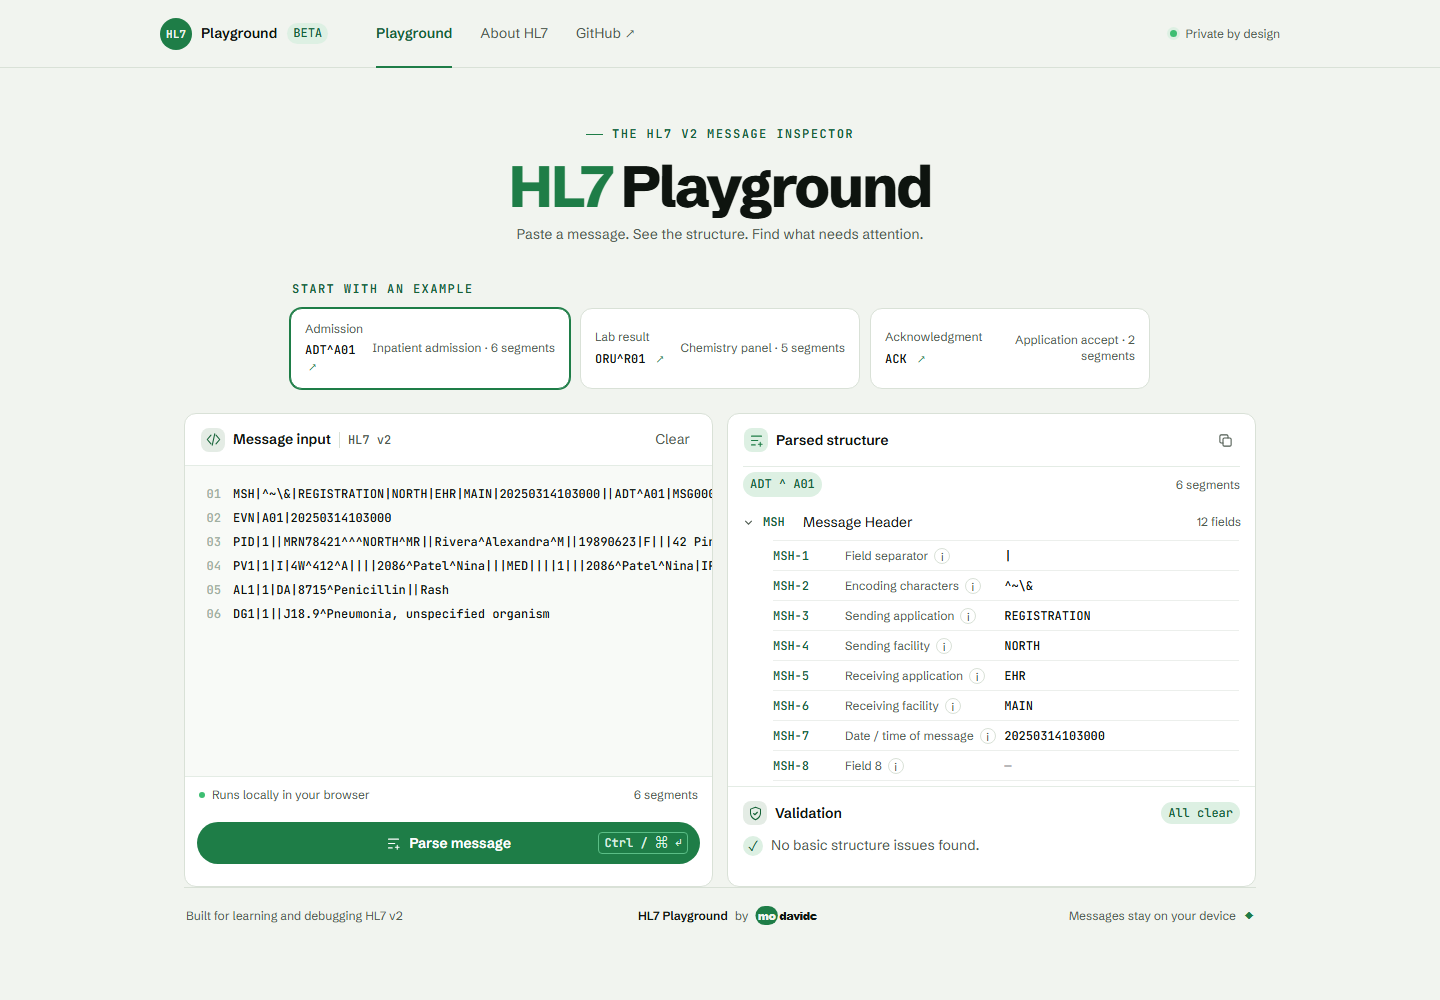
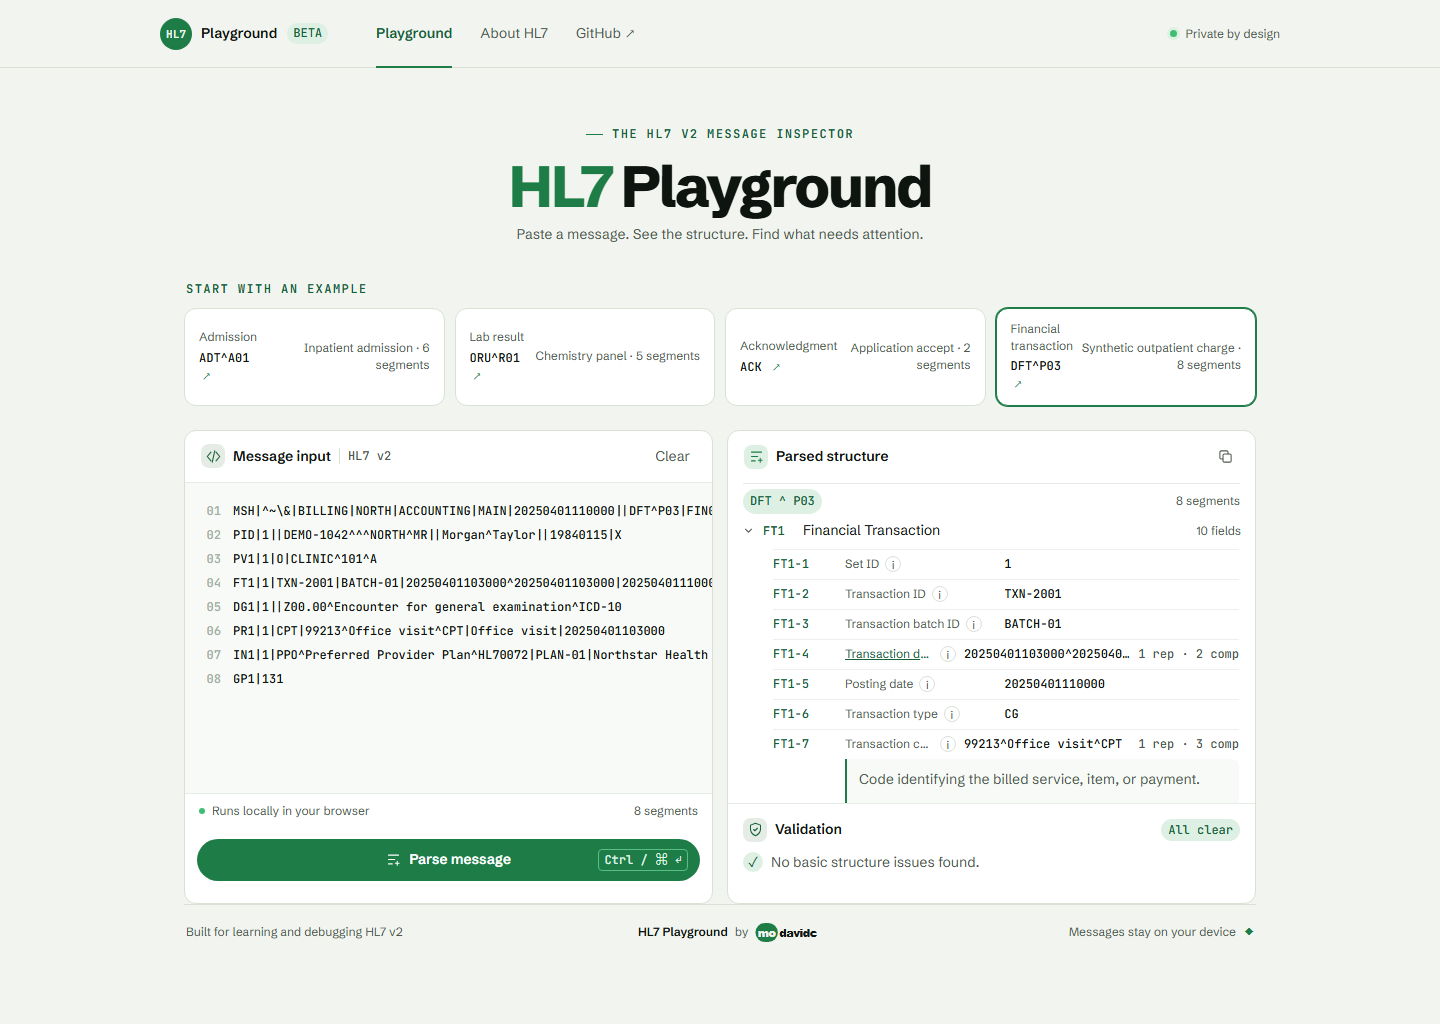
Add DFT financial message support

diff --git a/src/parser.ts b/src/parser.ts
@@ -178,7 +178,15 @@ export function validateMessage(input: string, message: Hl7Message): Issue[] {
     }
     for (const fieldIndex of required) {
       if (!segment.fields[fieldIndex - 1]?.value) {
-        issues.push(issue('warning', `${segment.name}-${fieldIndex} is empty`, 'This field is required for the basic structure check.', `${segment.name}-${fieldIndex}`));
+        const isPatientIdentifier = segment.name === 'PID' && fieldIndex === 3;
+        issues.push(issue(
+          'warning',
+          isPatientIdentifier ? 'PID-3 is empty (basic check)' : `${segment.name}-${fieldIndex} is empty`,
+          isPatientIdentifier
+            ? 'The basic check expects a patient identifier here. This is a structural hint, not a message-profile conformance result.'
+            : 'This field is expected by the basic structure check.',
+          `${segment.name}-${fieldIndex}`
+        ));
       }
     }
   }
@@ -196,6 +204,10 @@ export const segmentDescriptions: Record<string, string> = {
   ORC: 'Common Order',
   OBR: 'Observation Request',
   OBX: 'Observation Result',
+  FT1: 'Financial Transaction',
+  IN1: 'Insurance',
+  GP1: 'Grouping / Reimbursement',
+  PR1: 'Procedures',
   MSA: 'Message Acknowledgment',
   ERR: 'Error Information',
   NTE: 'Notes and Comments'
@@ -266,6 +278,61 @@ export const fieldDefinitions: Record<string, Record<number, FieldDefinition>> =
     8: { name: 'Abnormal flags', description: 'Flags that qualify the result relative to its reference range.' },
     11: { name: 'Result status', description: 'Status of this observation result.' }
   },
+  FT1: {
+    1: { name: 'Set ID', datatype: 'SI', description: 'Sequence number for this financial transaction.' },
+    2: { name: 'Transaction ID', datatype: 'ST', description: 'Identifier assigned by the sending system for this transaction.' },
+    3: { name: 'Transaction batch ID', datatype: 'ST', description: 'Identifier for the batch containing this transaction.' },
+    4: { name: 'Transaction date', datatype: 'DR', description: 'Date or date range when the service or transaction took place.' },
+    5: { name: 'Posting date', datatype: 'TS', description: 'Date the transaction was sent for financial posting.' },
+    6: { name: 'Transaction type', datatype: 'IS', description: 'Classifies the transaction, such as charge, credit, payment, or adjustment.' },
+    7: { name: 'Transaction code', datatype: 'CE', description: 'Code identifying the billed service, item, or payment.' },
+    8: { name: 'Transaction description', datatype: 'ST', description: 'Legacy description; newer messages generally carry text in FT1-7.' },
+    10: { name: 'Transaction quantity', datatype: 'NM', description: 'Quantity of items associated with this transaction.' },
+    11: { name: 'Extended amount', datatype: 'CP', description: 'Total price for the transaction.' },
+    12: { name: 'Unit amount', datatype: 'CP', description: 'Price for one unit of the transaction.' },
+    13: { name: 'Department code', datatype: 'CE', description: 'Department associated with the transaction.' },
+    14: { name: 'Insurance plan ID', datatype: 'CE', description: 'Insurance plan associated with this transaction.' },
+    15: { name: 'Insurance amount', datatype: 'CP', description: 'Amount attributed to insurance for this transaction.' },
+    16: { name: 'Assigned patient location', datatype: 'PL', description: 'Location associated with the transaction.' },
+    17: { name: 'Fee schedule', datatype: 'IS', description: 'Fee schedule used to price the transaction.' },
+    18: { name: 'Patient type', datatype: 'IS', description: 'Patient classification used for the transaction.' },
+    19: { name: 'Diagnosis code', datatype: 'CE', description: 'Diagnosis associated with the financial transaction.' },
+    20: { name: 'Performed by', datatype: 'XCN', description: 'Provider who performed the service.' },
+    21: { name: 'Ordered by', datatype: 'XCN', description: 'Provider who ordered the service.' },
+    22: { name: 'Unit cost', datatype: 'CP', description: 'Cost of one unit.' },
+    23: { name: 'Filler order number', datatype: 'EI', description: 'Identifier assigned by the system that filled the order.' },
+    25: { name: 'Procedure code', datatype: 'CE', description: 'Procedure associated with the financial transaction.' }
+  },
+  IN1: {
+    1: { name: 'Set ID', datatype: 'SI', description: 'Sequence number for this insurance plan group.' },
+    2: { name: 'Insurance plan ID', datatype: 'CE', description: 'Identifier and optional description of the insurance plan.' },
+    3: { name: 'Insurance company ID', datatype: 'CX', description: 'Identifier for the insurance company.' },
+    4: { name: 'Insurance company name', datatype: 'XON', description: 'Name of the insurance company.' },
+    5: { name: 'Insurance company address', datatype: 'XAD', description: 'Address of the insurance company.' },
+    8: { name: 'Group number', datatype: 'ST', description: 'Group number associated with the insurance plan.' },
+    15: { name: 'Plan type', datatype: 'IS', description: 'Type of insurance plan.' },
+    16: { name: 'Name of insured', datatype: 'XPN', description: 'Name of the person covered by the plan.' },
+    17: { name: 'Insured relationship', datatype: 'CE', description: 'Relationship of the insured to the patient.' }
+  },
+  GP1: {
+    1: { name: 'Type of bill code', datatype: 'IS', description: 'Classifies the bill for grouping and reimbursement.' },
+    2: { name: 'Revenue code', datatype: 'IS', description: 'Revenue category associated with the claim.' },
+    3: { name: 'Overall claim disposition code', datatype: 'IS', description: 'Disposition assigned to the overall claim.' },
+    4: { name: 'OCE edits per visit code', datatype: 'IS', description: 'Outpatient code editor result associated with the visit.' },
+    5: { name: 'Outlier cost', datatype: 'CP', description: 'Cost reported for grouping and reimbursement.' }
+  },
+  PR1: {
+    1: { name: 'Set ID', datatype: 'SI', description: 'Sequence number for this procedure.' },
+    2: { name: 'Procedure coding method', datatype: 'IS', description: 'Coding system used for the procedure code.' },
+    3: { name: 'Procedure code', datatype: 'CE', description: 'Code and optional text identifying the procedure.' },
+    4: { name: 'Procedure description', datatype: 'ST', description: 'Text description of the procedure.' },
+    5: { name: 'Procedure date / time', datatype: 'TS', description: 'Date and time when the procedure was performed.' },
+    6: { name: 'Procedure functional type', datatype: 'IS', description: 'Functional category of the procedure.' },
+    7: { name: 'Procedure minutes', datatype: 'NM', description: 'Duration of the procedure in minutes.' },
+    13: { name: 'Consent code', datatype: 'CE', description: 'Consent associated with the procedure.' },
+    14: { name: 'Procedure priority', datatype: 'ID', description: 'Priority assigned to the procedure.' },
+    15: { name: 'Associated diagnosis code', datatype: 'CE', description: 'Diagnosis associated with the procedure.' }
+  },
   MSA: {
     1: { name: 'Acknowledgment code', description: 'Indicates whether the message was accepted or rejected.' },
     2: { name: 'Message control ID', description: 'Control ID of the message being acknowledged.' },
@@ -273,7 +340,16 @@ export const fieldDefinitions: Record<string, Record<number, FieldDefinition>> =
   }
 };
 
-export function getFieldDefinition(segment: string, field: number): FieldDefinition {
+export function getFieldDefinition(segment: string, field: number, value = ''): FieldDefinition {
+  const [messageCode, triggerEvent] = value.split(/[^A-Za-z0-9]+/);
+  if (segment === 'MSH' && field === 9 && messageCode === 'DFT' && triggerEvent === 'P03') {
+    return { name: 'Message type', datatype: 'MSG', description: 'DFT^P03 posts detailed financial transactions, such as charges, payments, and adjustments.' };
+  }
+
+  if (segment.startsWith('Z')) {
+    return { name: `Local field ${field}`, description: `This field belongs to the locally defined ${segment} segment. Its meaning depends on the sending implementation.` };
+  }
+
   return fieldDefinitions[segment]?.[field] ?? {
     name: `Field ${field}`,
     description: `Field ${field} of the ${segment} segment. This field is not described in the built-in guide.`

diff --git a/e2e/playground.spec.ts b/e2e/playground.spec.ts
@@ -11,6 +11,28 @@ test('loads the ADT example and exposes its parsed structure', async ({ page }) 
   await expect(page.getByText('No basic structure issues found.')).toBeVisible();
 });
 
+test('loads the synthetic financial example with DFT field guidance', async ({ page }) => {
+  await page.locator('[data-example="3"]').click();
+
+  await expect(page.locator('.message-pill')).toHaveText('DFT ^ P03');
+  await expect(page.locator('.segment-name').nth(3)).toHaveText('FT1');
+  await expect(page.locator('.segment-description').nth(3)).toHaveText('Financial Transaction');
+  await page.locator('[data-field="FT1-7"]').click();
+  await expect(page.locator('.field-detail')).toContainText('Code identifying the billed service');
+  await expect(page.locator('.validation')).toContainText('No basic structure issues found.');
+});
+
+test('identifies a Z segment as a local extension without guessing its field meaning', async ({ page }) => {
+  await page.getByRole('textbox', { name: 'HL7 v2 message input' }).fill(
+    'MSH|^~\\&|APP|FAC|REC|RFAC|20250101010101||ADT^A01|CTRL1|P|2.5\nZDN|LOCAL-VALUE'
+  );
+  await page.getByRole('button', { name: 'Parse message' }).click();
+
+  await expect(page.locator('.segment-description').nth(1)).toHaveText('Local extension (implementation-defined)');
+  await page.locator('[data-field="ZDN-1"]').click();
+  await expect(page.locator('.field-detail')).toContainText('meaning depends on the sending implementation');
+});
+
 test('preserves keyboard focus while expanding segments and field explanations', async ({ page }) => {
   const segment = page.locator('[data-segment="1"]');
   await segment.focus();

diff --git a/src/main.ts b/src/main.ts
@@ -108,7 +108,7 @@ function renderValueTree(segmentName: string, field: Hl7Field): string {
 
 function renderField(segmentName: string, field: Hl7Field): string {
   const fieldKey = `${segmentName}-${field.index}`;
-  const definition = getFieldDefinition(segmentName, field.index);
+  const definition = getFieldDefinition(segmentName, field.index, field.value);
   const expanded = expandedFields.has(fieldKey);
   const fieldKeyHtml = escapeHtml(fieldKey);
   const structure = isStructured(field);
@@ -131,7 +131,8 @@ function renderField(segmentName: string, field: Hl7Field): string {
 
 function renderSegment(segment: Hl7Message['segments'][number]): string {
   const expanded = expandedSegments === null || expandedSegments.has(segment.index);
-  const description = segmentDescriptions[segment.name] ?? 'HL7 Segment';
+  const description = segmentDescriptions[segment.name]
+    ?? (segment.name.startsWith('Z') ? 'Local extension (implementation-defined)' : 'HL7 Segment');
   return `<div class="segment ${expanded ? 'is-open' : ''}">
     <button class="segment-row" data-segment="${segment.index}" aria-expanded="${expanded}">
       <span class="tree-chevron">${icons.chevron}</span>

diff --git a/src/examples.ts b/src/examples.ts
@@ -17,5 +17,9 @@ export const examples: Example[] = [
   {
     name: 'ACK', type: 'Acknowledgment', description: 'Application accept · 2 segments',
     message: 'MSH|^~\\&|EHR|MAIN|REGISTRATION|NORTH|20250314103100||ACK^A01|ACK00001|P|2.5\r\nMSA|AA|MSG00001|Message accepted'
+  },
+  {
+    name: 'DFT^P03', type: 'Financial transaction', description: 'Synthetic outpatient charge · 8 segments',
+    message: 'MSH|^~\\&|BILLING|NORTH|ACCOUNTING|MAIN|20250401110000||DFT^P03|FIN00001|P|2.5\r\nPID|1||DEMO-1042^^^NORTH^MR||Morgan^Taylor||19840115|X\r\nPV1|1|O|CLINIC^101^A\r\nFT1|1|TXN-2001|BATCH-01|20250401103000^20250401103000|20250401110000|CG|99213^Office visit^CPT||1|125.00^TP\r\nDG1|1||Z00.00^Encounter for general examination^ICD-10\r\nPR1|1|CPT|99213^Office visit^CPT|Office visit|20250401103000\r\nIN1|1|PPO^Preferred Provider Plan^HL70072|PLAN-01|Northstar Health Plan\r\nGP1|131'
   }
 ];

diff --git a/src/styles.css b/src/styles.css
@@ -122,9 +122,9 @@ main { max-width: 1120px; margin: 0 auto; padding: 0 24px; }
 .hero h1 span { color: var(--accent); }
 .hero p { margin: 0; color: var(--muted); font-size: 14px; }
 
-.examples { max-width: 860px; margin: 0 auto 24px; }
+.examples { max-width: 1072px; margin: 0 auto 24px; }
 .section-kicker { margin: 0 0 10px 2px; }
-.example-row { display: grid; grid-template-columns: repeat(3, 1fr); gap: 10px; }
+.example-row { display: grid; grid-template-columns: repeat(4, minmax(0, 1fr)); gap: 10px; }
 .example-card {
   display: grid;
   grid-template-columns: 1fr auto;

diff --git a/README.md b/README.md
@@ -37,9 +37,9 @@ The project follows semantic versioning. Versions below `1.0.0` are previews, so
 
 - Parses HL7 v2 messages using the delimiters declared in MSH.
 - Preserves fields, repetitions, components, and subcomponents.
-- Explains common MSH, EVN, PID, PV1, AL1, DG1, ORC, OBR, OBX, and MSA fields.
+- Explains common MSH, EVN, PID, PV1, AL1, DG1, ORC, OBR, OBX, FT1, IN1, GP1, PR1, and MSA fields.
 - Checks for a missing or malformed MSH, invalid segment separators, mixed line endings, and blank common required fields.
-- Includes ADT^A01, ORU^R01, and ACK examples.
+- Includes ADT^A01, ORU^R01, ACK, and a synthetic DFT^P03 financial transaction example.
 - Limits input to 512,000 characters and 500 non-empty segments to keep parsing responsive.
 - Keeps parsing and fonts local to the browser; message content is not sent to a service.
 
@@ -52,11 +52,11 @@ npm run test:ui
 npm run build
 ```
 
-The parser suite covers header indexing, delimiter handling, line endings, nested field structure, empty fields, input limits, validation locations, HTML escaping, and all built-in examples. The browser suite covers keyboard focus, validation announcements, source line locations, and oversized inputs. Pull requests run both suites and a production build; the Pages workflow checks the parser and builds before deployment.
+The parser suite covers header indexing, delimiter handling, line endings, nested field structure, empty fields, input limits, validation locations, HTML escaping, and all built-in examples. The browser suite covers keyboard focus, validation announcements, source line locations, the DFT example, and oversized inputs. Pull requests and the Pages deployment workflow run both suites and a production build before publishing.
 
 ## Scope and limits
 
-This is an educational inspector and basic structural checker. It does not validate an implementation guide or certify conformance, decode HL7 escape sequences, parse MLLP framing, or replace a production interface engine. Input is limited to 512,000 characters and 500 non-empty segments. Some fields change meaning or data type by version and message profile; the built-in field guide covers common v2.5 use and labels values such as OBX-5 as dependent on OBX-2. Examples contain synthetic data. Do not use this tool for clinical decisions.
+This is an educational inspector and basic structural checker. It does not validate an implementation guide or certify conformance, decode HL7 escape sequences, parse MLLP framing, or replace a production interface engine. A warning such as an empty PID-3 is a basic structural hint, not an implementation guide conformance result. Input is limited to 512,000 characters and 500 non-empty segments. Some fields change meaning or data type by version and message profile; the built-in field guide covers common v2.5 use and labels values such as OBX-5 as dependent on OBX-2. `Z` segments are local extensions and their field meanings depend on the sending implementation. Examples contain synthetic data. Do not use this tool for clinical decisions.
 
 ## Built-in field references
 
@@ -65,6 +65,7 @@ Names and descriptions are intended as a quick guide. See the HL7-maintained ref
 - [MSH segment mapping](https://hl7.org/fhir/uv/v2mappings/ConceptMap-segment-msh-to-encounter.html)
 - [PID segment mapping](https://www.hl7.org/fhir/uv/v2mappings/ConceptMap-segment-pid-to-patient.html)
 - [OBX segment mapping](https://www.hl7.org/fhir/uv/v2mappings/ConceptMap-segment-obx-to-observation.html)
+- [HL7 v2.5.1 financial management segments](https://www.hl7.eu/HL7v2x/v251/std251/ch06.html) (FT1, IN1, GP1, and PR1)
 
 ## Licensing
 

diff --git a/CHANGELOG.md b/CHANGELOG.md
@@ -8,6 +8,9 @@ This project follows semantic versioning. Releases below `1.0.0` are previews an
 - Bound message parsing to 512,000 characters and 500 non-empty segments.
 - Preserve keyboard focus through tree interactions and announce parse results to assistive technology.
 - Add parser, HTML escaping, and browser interaction coverage, plus pull request checks.
+- Add a synthetic DFT^P03 example and field guidance for FT1, IN1, GP1, and PR1.
+- Clarify that the PID-3 notice is a basic structural hint, identify local Z segments, and run browser checks before Pages deployment.
+- Refresh the README screenshot for the financial transaction example.
 
 ## [0.1.0] - 2026-10-28
 
